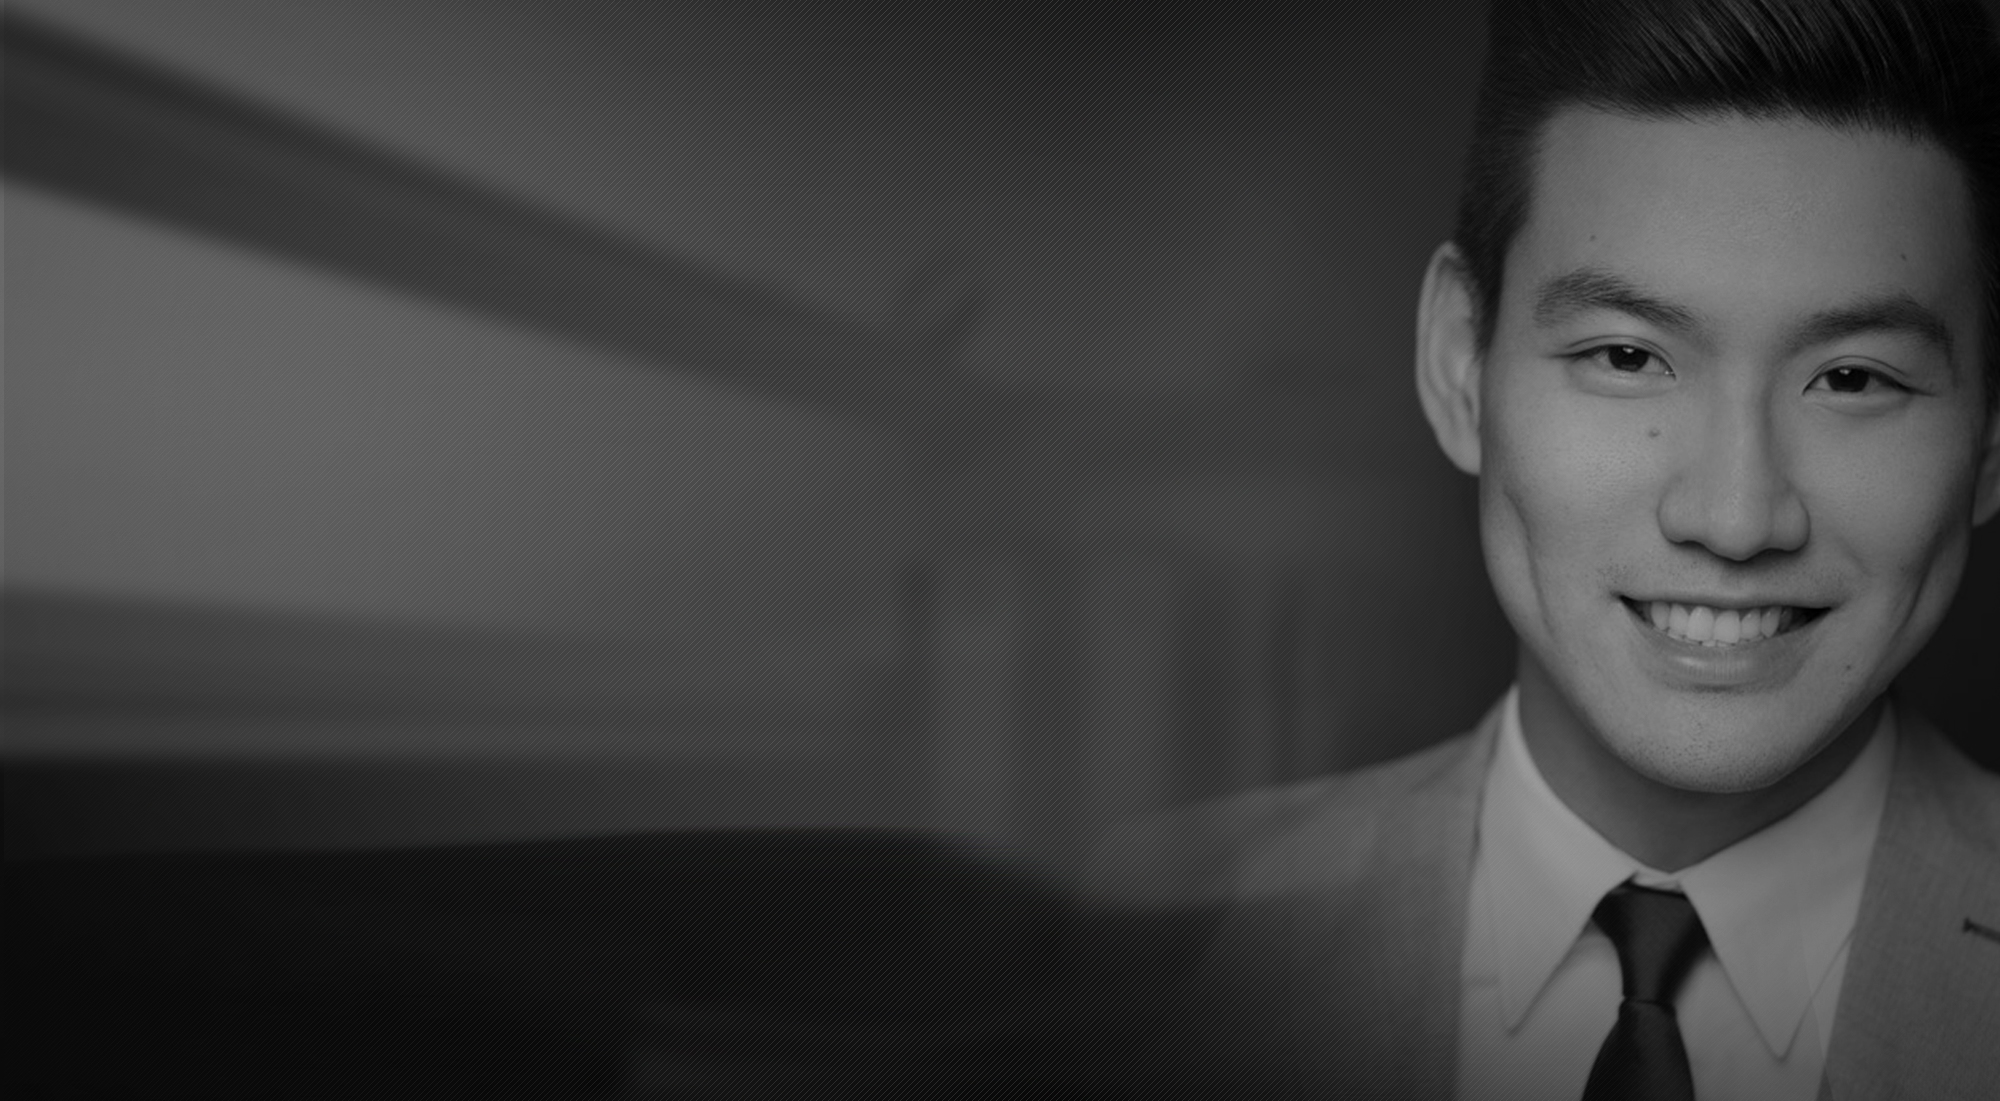
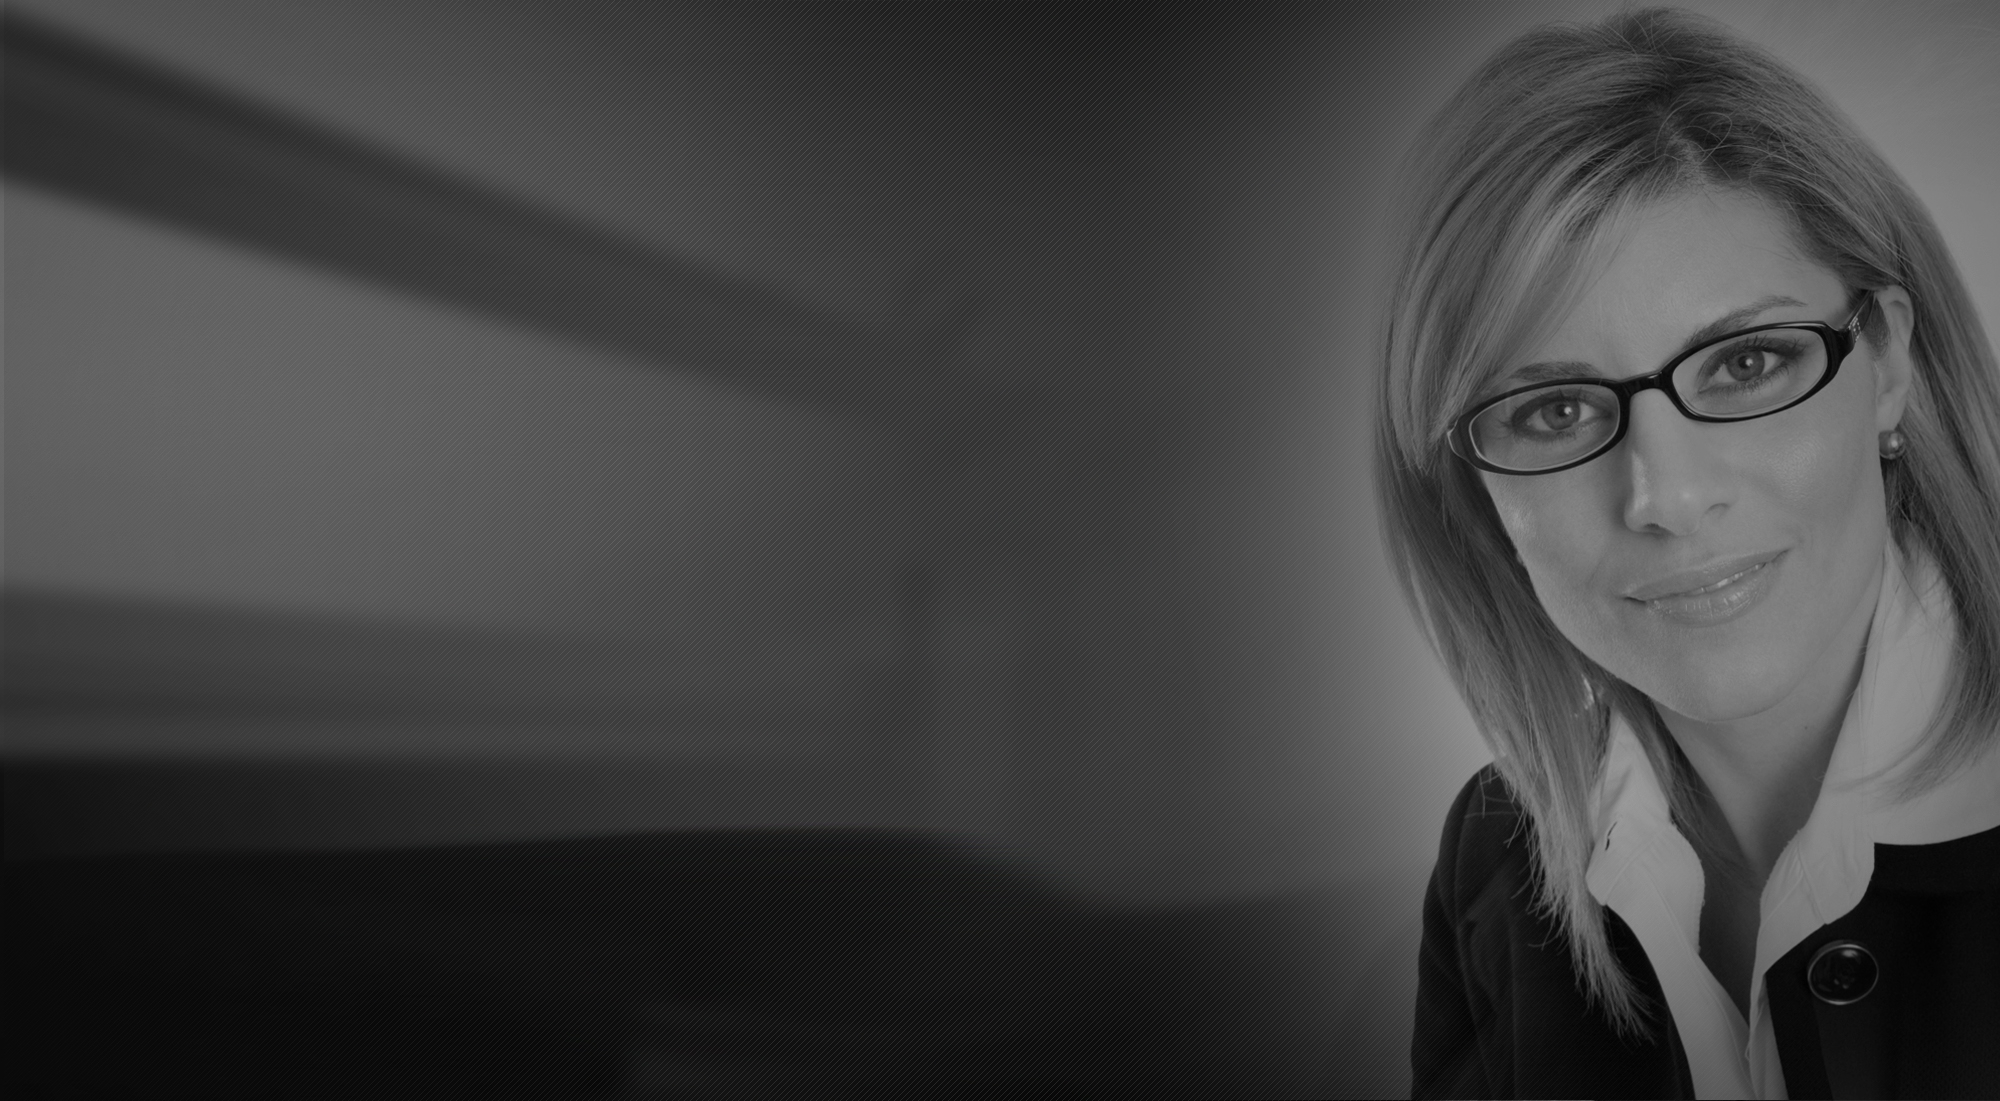
feedback 1121

Changed region(s): [[0.62, 0.0, 1.0, 1.0]]

diff --git a/sample.html b/sample.html
@@ -11,7 +11,6 @@
 <link rel="apple-touch-icon-precomposed" href="http://stephan-siegrist.ch/images/core/apple-touch-icon.png">
 <link rel="shortcut icon" href="images/bitbug_favicon.ico" /><!-- html 添加图标 -->
 <link rel="icon" href="images/bitbug_favicon.ico" />
-
 <!-- css --> 
 <!--[if gte IE 7]><link rel="stylesheet" href="http://stephan-siegrist.ch/styles/ie8.css"  type="text/css" media="screen" /><![endif]-->
 <!--[if IE 7]><link rel="stylesheet" href="http://stephan-siegrist.ch/styles/ie7.css" type="text/css" media="screen"  /><![endif]-->
@@ -32,7 +31,7 @@
 	
         //  Initialize Backgound Stretcher	   
 		$('.demoo').bgStretcher({
-			images: ['images/ubertal_bg_31.jpg'],
+			images: ['images/ubertal_bg_32.jpg'],
 			imageWidth: 2000, 
 			imageHeight: 1101, 
 			slideDirection: 'N',
@@ -64,15 +63,13 @@
 		line-height: 80px;
 		color: #fff;
 		font-size: 12px;
-		
 
 	}
 </style>
 <title>UBERTAL</title>
 </head>
 <body class="demoo">
-
-	<div class="container">
+<div class="container">
 	<div class="header">
 		<div class="row">
 			<div class="col-md-4"><img src="images/logo.png" class="img-responsive"></div>
@@ -83,7 +80,6 @@
 		</div>
 	</div>
 </div>
-
 
 <div style="background:rgba(0,0,0,.5); height:40px; line-height:40px; color:#fff;">
 		<div class="container">	
@@ -101,21 +97,12 @@
 
 
 
-
 	<div class="container">
-		<div class="no-bg-innerPage">
-			<h1  >Why Ubertal</h1>
-			<div style="padding-bottom:20px; line-height:32px;  font-size:18px;">
-				We offer companies a variety of options for acquiring exceptional engineering talent. We give you access to new pool of talent and shorten the recruiting process for acquiring contract or permanent candidates due to our rigorous qualification process. We offer flexible options for hiring/contracting with little to no risk.
-<li style="color:#060606; font-weight: 800;">Permanent Hire through H1B Visa Sponsorship</li>
-<li style="list-style:none;text-indent:1em;">In this model, we identify and qualify candidates from the global talent pool. You interview them and decide whether you would like to sponsor their H1B visa. Before October 1st, you have the option to have the engineer work remotely on a contract basis. The engineer can also come onsite for training during this time. You can evaluate the engineer prior to April 1st after which you would apply for their H1B visa if you decide to hire him/her.</li>
-<li style="color:#060606; font-weight: 800;">Onsite Contractor/Contract to hire</li>
-<li style="list-style:none;text-indent:1em;">In this model, we sponsor a candidate’s H1B visa and they could be your onsite contractor. You have the option to convert them to full time employees or keep them as contractors.</li>
-<li style="color:#060606; font-weight: 800;">Remote Contractor</li>
-<li style="list-style:none;text-indent:1em;">Engineers work from home and you benefit from the cost savings of offshore development. The engineer can come periodically onsite for training purposes. The engineer may even work during US working hours if required.</li>
-<li style="color:#060606; font-weight: 800;">Permanent hire via US talent pool</li>
-<li style="list-style:none;text-indent:1em;">We will help you source the best engineering talent that already have work visas to work in the US. Our process for finding candidates and qualifying them is extremely rigorous. Our focus is on quality and simplification of the recruiting process.</li>
-			</div>
+		<div class="no-bg-innerPage" style="height:400px;">
+			<h1>Sample Engineers</h1>
+			
+			
+
 		</div>
 	</div>
 	

diff --git a/FAQ.html b/FAQ.html
@@ -11,7 +11,6 @@
 <link rel="apple-touch-icon-precomposed" href="http://stephan-siegrist.ch/images/core/apple-touch-icon.png">
 <link rel="shortcut icon" href="images/bitbug_favicon.ico" /><!-- html 添加图标 -->
 <link rel="icon" href="images/bitbug_favicon.ico" />
-
 <!-- css --> 
 <!--[if gte IE 7]><link rel="stylesheet" href="http://stephan-siegrist.ch/styles/ie8.css"  type="text/css" media="screen" /><![endif]-->
 <!--[if IE 7]><link rel="stylesheet" href="http://stephan-siegrist.ch/styles/ie7.css" type="text/css" media="screen"  /><![endif]-->
@@ -32,7 +31,7 @@
 	
         //  Initialize Backgound Stretcher	   
 		$('.demoo').bgStretcher({
-			images: ['images/ubertal_bg_31.jpg'],
+			images: ['images/ubertal_bg_32.jpg'],
 			imageWidth: 2000, 
 			imageHeight: 1101, 
 			slideDirection: 'N',
@@ -64,15 +63,13 @@
 		line-height: 80px;
 		color: #fff;
 		font-size: 12px;
-		
 
 	}
 </style>
 <title>UBERTAL</title>
 </head>
 <body class="demoo">
-
-	<div class="container">
+<div class="container">
 	<div class="header">
 		<div class="row">
 			<div class="col-md-4"><img src="images/logo.png" class="img-responsive"></div>
@@ -83,7 +80,6 @@
 		</div>
 	</div>
 </div>
-
 
 <div style="background:rgba(0,0,0,.5); height:40px; line-height:40px; color:#fff;">
 		<div class="container">	
@@ -101,21 +97,12 @@
 
 
 
-
 	<div class="container">
-		<div class="no-bg-innerPage">
-			<h1  >Why Ubertal</h1>
-			<div style="padding-bottom:20px; line-height:32px;  font-size:18px;">
-				We offer companies a variety of options for acquiring exceptional engineering talent. We give you access to new pool of talent and shorten the recruiting process for acquiring contract or permanent candidates due to our rigorous qualification process. We offer flexible options for hiring/contracting with little to no risk.
-<li style="color:#060606; font-weight: 800;">Permanent Hire through H1B Visa Sponsorship</li>
-<li style="list-style:none;text-indent:1em;">In this model, we identify and qualify candidates from the global talent pool. You interview them and decide whether you would like to sponsor their H1B visa. Before October 1st, you have the option to have the engineer work remotely on a contract basis. The engineer can also come onsite for training during this time. You can evaluate the engineer prior to April 1st after which you would apply for their H1B visa if you decide to hire him/her.</li>
-<li style="color:#060606; font-weight: 800;">Onsite Contractor/Contract to hire</li>
-<li style="list-style:none;text-indent:1em;">In this model, we sponsor a candidate’s H1B visa and they could be your onsite contractor. You have the option to convert them to full time employees or keep them as contractors.</li>
-<li style="color:#060606; font-weight: 800;">Remote Contractor</li>
-<li style="list-style:none;text-indent:1em;">Engineers work from home and you benefit from the cost savings of offshore development. The engineer can come periodically onsite for training purposes. The engineer may even work during US working hours if required.</li>
-<li style="color:#060606; font-weight: 800;">Permanent hire via US talent pool</li>
-<li style="list-style:none;text-indent:1em;">We will help you source the best engineering talent that already have work visas to work in the US. Our process for finding candidates and qualifying them is extremely rigorous. Our focus is on quality and simplification of the recruiting process.</li>
-			</div>
+		<div class="no-bg-innerPage" style="height:400px;">
+			<h1>FAQ</h1>
+			
+			
+
 		</div>
 	</div>
 	

diff --git a/index.html b/index.html
@@ -29,7 +29,7 @@
 	
         //  Initialize Backgound Stretcher	   
 		$('.demoo').bgStretcher({
-			images: ['images/ubertal_bg_24.jpg', 'images/ubertal_bg_20.jpg', 'images/ubertal_bg_18.jpg','images/ubertal_bg_22.jpg', 'images/ubertal_bg_17.jpg', 'images/ubertal_bg_27.jpg', 'images/ubertal_bg_28.jpg',],
+			images: ['images/ubertal_bg_24.jpg', 'images/ubertal_bg_19.jpg','images/ubertal_bg_20.jpg', 'images/ubertal_bg_18.jpg','images/ubertal_bg_22.jpg', 'images/ubertal_bg_17.jpg', 'images/ubertal_bg_27.jpg', 'images/ubertal_bg_28.jpg',],
 			imageWidth: 2000, 
 			imageHeight: 1101, 
 			slideDirection: 'N',
@@ -76,7 +76,7 @@
 			<div class="col-md-8"> <span class="logo_font">EXCEPTIONAL ENGINEERS <b style="font-size:24px;">·</b> OUTSTANDING COMPANIES</span></div>
 		</div>
 		<div class="uber-nav">
-			<a href="index.html" class="dhua">HOME</a><a href="what-we-do.html" class="mm-left dhua">WHAT WE DO</a><a href="why-ubertal.html" class="mm-left dhua">WHY UBERTAL</a><a href="the-process.html" class="mm-left dhua">THE PROCESS</a><a href="" class="mm-left dhua">SAMPLE ENGINEERS</a><a href="" class="mm-left dhua">FAQ</a> <a href="ContactUs.html" class="mm-left dhua">CONTACT US</a> 
+			<a href="index.html" class="dhua">HOME</a><a href="what-we-do.html" class="mm-left dhua">WHAT WE DO</a><a href="why-ubertal.html" class="mm-left dhua">WHY UBERTAL</a><a href="the-process.html" class="mm-left dhua">THE PROCESS</a><a href="sample.html" class="mm-left dhua">SAMPLE ENGINEERS</a><a href="FAQ.html" class="mm-left dhua">FAQ</a> <a href="ContactUs.html" class="mm-left dhua">CONTACT US</a> 
 		</div>
 	</div>
 </div>
@@ -111,9 +111,9 @@
 				<div  style="padding-left:0px;">
 				<h2>Why Ubertal for Clients</h2>
 				<ul class="list-unstyled">
-					<li>Access to top global engineering talent that is difficult to find locally</li>
-					<li>Flexible engagement options including contract, contract to hire and permanent placement. Remote workers or onsite workers</li>
-					<li>No risk – try out an engineer at no cost for 2 weeks</li>
+					<li>Access to a unique pool of software developers</li>
+					<li>Flexible engagement options - contract, contract to hire or permanent placement</li>
+					<li>No risk - try out an engineer at no cost for 2 weeks</li>
 				</ul>
 				</div>
 				<div class="uber-btn" onClick="window.open('sign-in-client.html','_self');">
@@ -128,7 +128,7 @@
 				<ul class="list-unstyled">
 					<li>Work for high growth, top tier, US based companies</li>
 					<li>Opportunity to work and/or live in the US</li>
-					<li>Option to work from home – no need to fight traffic<br><br><br></li>
+					<li>Option to work from home – no need to fight traffic<br><br></li>
 
 				</ul>
 				</div>

diff --git a/what-we-do.html b/what-we-do.html
@@ -31,7 +31,7 @@
 	
         //  Initialize Backgound Stretcher	   
 		$('.demoo').bgStretcher({
-			images: ['images/ubertal_bg_22.jpg'],
+			images: ['images/ubertal_bg_30.jpg'],
 			imageWidth: 2000, 
 			imageHeight: 1101, 
 			slideDirection: 'N',
@@ -76,7 +76,7 @@
 			<div class="col-md-8"> <span class="logo_font">EXCEPTIONAL ENGINEERS <b style="font-size:24px;">·</b> OUTSTANDING COMPANIES</span></div>
 		</div>
 		<div class="uber-nav">
-			<a href="index.html" class="dhua">HOME</a><a href="what-we-do.html" class="mm-left dhua">WHAT WE DO</a><a href="why-ubertal.html" class="mm-left dhua">WHY UBERTAL</a><a href="the-process.html" class="mm-left dhua">THE PROCESS</a><a href="" class="mm-left dhua">SAMPLE ENGINEERS</a><a href="" class="mm-left dhua">FAQ</a> <a href="ContactUs.html" class="mm-left dhua">CONTACT US</a> 
+			<a href="index.html" class="dhua">HOME</a><a href="what-we-do.html" class="mm-left dhua">WHAT WE DO</a><a href="why-ubertal.html" class="mm-left dhua">WHY UBERTAL</a><a href="the-process.html" class="mm-left dhua">THE PROCESS</a><a href="sample.html" class="mm-left dhua">SAMPLE ENGINEERS</a><a href="FAQ.html" class="mm-left dhua">FAQ</a> <a href="ContactUs.html" class="mm-left dhua">CONTACT US</a> 
 		</div>
 	</div>
 </div>

diff --git a/ContactUs.html b/ContactUs.html
@@ -76,7 +76,7 @@
 			<div class="col-md-8"> <span class="logo_font">EXCEPTIONAL ENGINEERS <b style="font-size:24px;">·</b> OUTSTANDING COMPANIES</span></div>
 		</div>
 		<div class="uber-nav">
-			<a href="index.html" class="dhua">HOME</a><a href="what-we-do.html" class="mm-left dhua">WHAT WE DO</a><a href="why-ubertal.html" class="mm-left dhua">WHY UBERTAL</a><a href="the-process.html" class="mm-left dhua">THE PROCESS</a><a href="" class="mm-left dhua">SAMPLE ENGINEERS</a><a href="" class="mm-left dhua">FAQ</a> <a href="ContactUs.html" class="mm-left dhua">CONTACT US</a> 
+			<a href="index.html" class="dhua">HOME</a><a href="what-we-do.html" class="mm-left dhua">WHAT WE DO</a><a href="why-ubertal.html" class="mm-left dhua">WHY UBERTAL</a><a href="the-process.html" class="mm-left dhua">THE PROCESS</a><a href="sample.html" class="mm-left dhua">SAMPLE ENGINEERS</a><a href="FAQ.html" class="mm-left dhua">FAQ</a> <a href="ContactUs.html" class="mm-left dhua">CONTACT US</a> 
 		</div>
 	</div>
 </div>

diff --git a/sign-in-client.html b/sign-in-client.html
@@ -76,7 +76,7 @@
 			<div class="col-md-8"> <span class="logo_font">EXCEPTIONAL ENGINEERS <b style="font-size:24px;">·</b> OUTSTANDING COMPANIES</span></div>
 		</div>
 		<div class="uber-nav">
-			<a href="index.html" class="dhua">HOME</a><a href="what-we-do.html" class="mm-left dhua">WHAT WE DO</a><a href="why-ubertal.html" class="mm-left dhua">WHY UBERTAL</a><a href="the-process.html" class="mm-left dhua">THE PROCESS</a><a href="" class="mm-left dhua">SAMPLE ENGINEERS</a><a href="" class="mm-left dhua">FAQ</a> <a href="ContactUs.html" class="mm-left dhua">CONTACT US</a> 
+			<a href="index.html" class="dhua">HOME</a><a href="what-we-do.html" class="mm-left dhua">WHAT WE DO</a><a href="why-ubertal.html" class="mm-left dhua">WHY UBERTAL</a><a href="the-process.html" class="mm-left dhua">THE PROCESS</a><a href="sample.html" class="mm-left dhua">SAMPLE ENGINEERS</a><a href="FAQ.html" class="mm-left dhua">FAQ</a> <a href="ContactUs.html" class="mm-left dhua">CONTACT US</a> 
 		</div>
 	</div>
 </div>

diff --git a/the-process.html b/the-process.html
@@ -77,7 +77,7 @@
 			<div class="col-md-8"> <span class="logo_font">EXCEPTIONAL ENGINEERS <b style="font-size:24px;">·</b> OUTSTANDING COMPANIES</span></div>
 		</div>
 		<div class="uber-nav">
-			<a href="index.html" class="dhua">HOME</a><a href="what-we-do.html" class="mm-left dhua">WHAT WE DO</a><a href="why-ubertal.html" class="mm-left dhua">WHY UBERTAL</a><a href="the-process.html" class="mm-left dhua">THE PROCESS</a><a href="" class="mm-left dhua">SAMPLE ENGINEERS</a><a href="" class="mm-left dhua">FAQ</a> <a href="ContactUs.html" class="mm-left dhua">CONTACT US</a> 
+			<a href="index.html" class="dhua">HOME</a><a href="what-we-do.html" class="mm-left dhua">WHAT WE DO</a><a href="why-ubertal.html" class="mm-left dhua">WHY UBERTAL</a><a href="the-process.html" class="mm-left dhua">THE PROCESS</a><a href="sample.html" class="mm-left dhua">SAMPLE ENGINEERS</a><a href="FAQ.html" class="mm-left dhua">FAQ</a> <a href="ContactUs.html" class="mm-left dhua">CONTACT US</a> 
 		</div>
 	</div>
 </div>

diff --git a/sign-in-developer.html b/sign-in-developer.html
@@ -76,7 +76,7 @@
 			<div class="col-md-8"><span class="logo_font">EXCEPTIONAL ENGINEERS <b style="font-size:24px;">·</b> OUTSTANDING COMPANIES</span></div>
 		</div>
 		<div class="uber-nav">
-			<a href="index.html" class="dhua">HOME</a><a href="what-we-do.html" class="mm-left dhua">WHAT WE DO</a><a href="why-ubertal.html" class="mm-left dhua">WHY UBERTAL</a><a href="the-process.html" class="mm-left dhua">THE PROCESS</a><a href="" class="mm-left dhua">SAMPLE ENGINEERS</a><a href="" class="mm-left dhua">FAQ</a> <a href="ContactUs.html" class="mm-left dhua">CONTACT US</a> 
+			<a href="index.html" class="dhua">HOME</a><a href="what-we-do.html" class="mm-left dhua">WHAT WE DO</a><a href="why-ubertal.html" class="mm-left dhua">WHY UBERTAL</a><a href="the-process.html" class="mm-left dhua">THE PROCESS</a><a href="sample.html" class="mm-left dhua">SAMPLE ENGINEERS</a><a href="FAQ.html" class="mm-left dhua">FAQ</a> <a href="ContactUs.html" class="mm-left dhua">CONTACT US</a> 
 		</div>
 	</div>
 </div>
